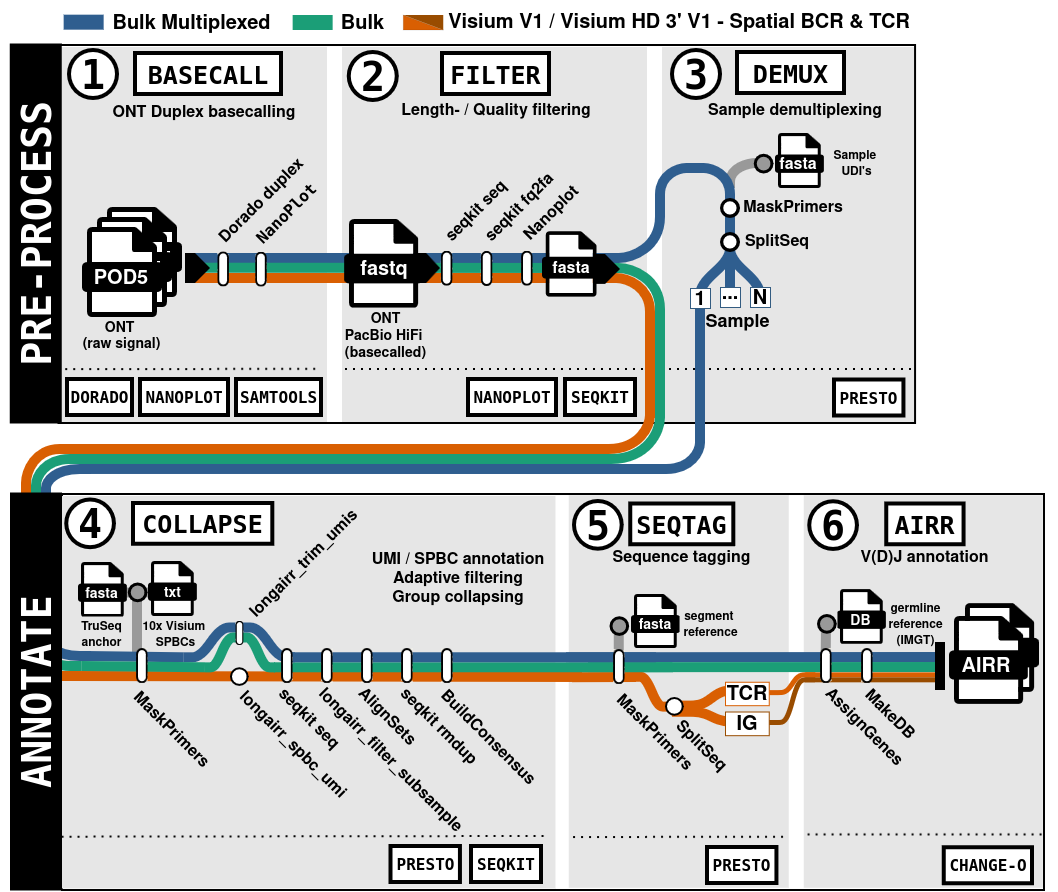
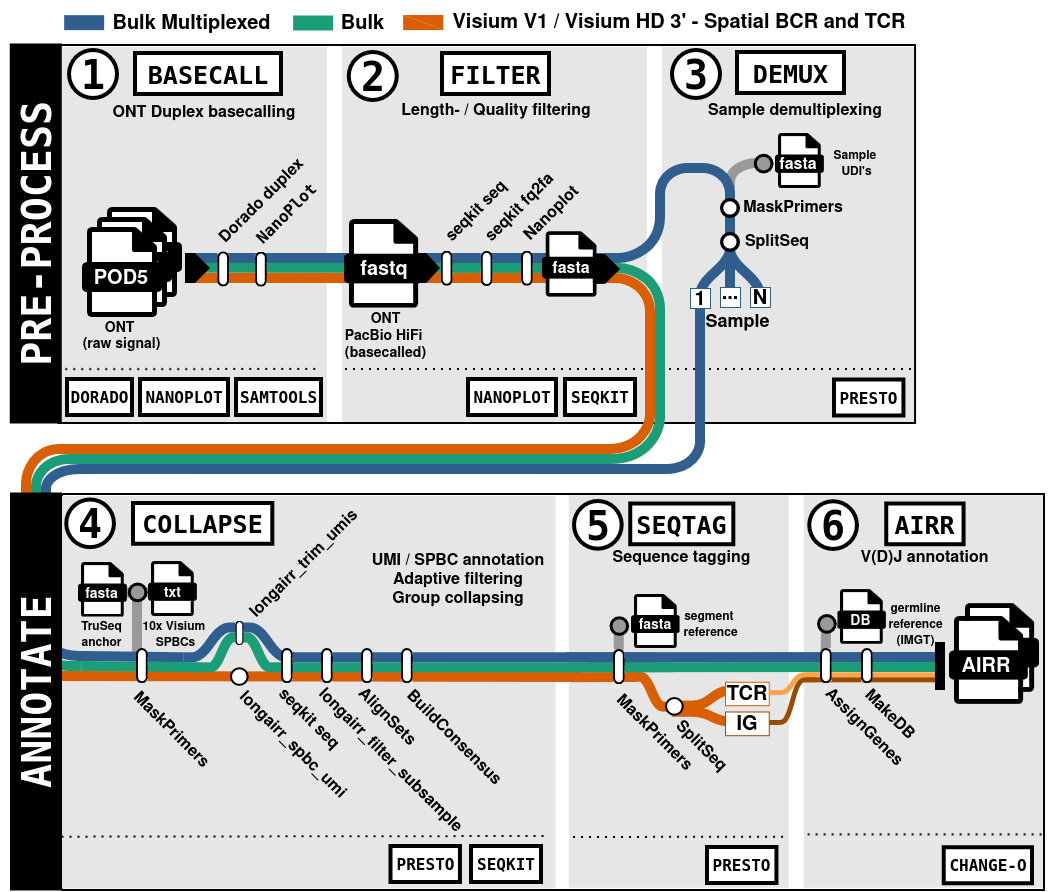
Updating documentation, including new repo-links in all scripts; installation bug-fix and updated documentation in README

diff --git a/longairr_scripts/longairr_spbc_umi_main.py b/longairr_scripts/longairr_spbc_umi_main.py
@@ -6,10 +6,9 @@ import gzip
 from Bio import SeqIO
 from Bio.Seq import Seq
 
-
 #================================================================#
 #
-#        Script:  longairr_spbc_umi.py
+#        Script:  longairr_spbc_umi_main.py
 #         Usage:  Internal script used in 'longairr.sh/longairr collapse'
 #
 #   DESCRIPTION:  Annotates spatial barcode / UMI information in anchor-cut reads.
@@ -17,30 +16,30 @@ from Bio.Seq import Seq
 #                 Supports two spatial modes:
 #
 #                 1) visium
-#                    - fixed SPBC length
-#                    - fixed UMI length
-#                    - one SPBC whitelist
+#                    - fixed SPBC length (default 16 nt)
+#                    - fixed UMI length (default 12 nt)
+#                    - one SPBC whitelist (e.g. visium-v1_coordinates.txt from 10x Genomics SpaceRanger)
 #                    - exact match or optional mismatch-based correction
-#                    - header emits: SPBC, UMI, SPBCUMI
+#                    - Sequence header slots: SPBC, UMI, SPBCUMI
 #
 #                 2) visium_hd
 #                    - exact matching only
 #                    - BC1 and BC2 information from 10x Genomics
-#                    - fixed base UMI length of 9
+#                    - Base UMI length of 9
 #                    - tries offsets 0/1/2
 #                    - offset nt are included in emitted UMI
-#                    - header emits: UMI, BC1, BC2, SPBC, UMISPBC, X, Y, SPBC10X
+#                    - Sequence header slots: UMI, BC1, BC2, SPBC, UMISPBC, X, Y, SPBC10X
+#
+#                  Script can return reads that dont map to any
+#                  valid SPBC using the --failed flag. UMI and SPBC sequence segments
+#                  can be either cut (--cut option) or kept.
 #
 #        AUTHOR:  Jonas Schuck, jschuckdev@gmail.com
-#    BUG-REPORT:  https://github.com/AGImkeller/AIRR_workflow/issues
+#    BUG-REPORT:  https://github.com/AGImkeller/LongAIRR/issues
 #
 #================================================================#
 
-
-# ----------------------------
-# Generic helpers
-# ----------------------------
-
+# General Helpers
 def parse_bool(value):
     if isinstance(value, bool):
         return value
@@ -57,11 +56,10 @@ def write_failed_record(record, failed_handle, reason):
         SeqIO.write(record, failed_handle, "fasta")
 
 
-# ----------------------------
-# Classic Visium helpers
-# ----------------------------
+# ----------------------------- Visium V1 --------------------------------------
 
-# Load Visium SPBC whitelist and optional coordinates [visium_v1.txt]
+# Load Visium SPBC whitelist and optional coordinates 
+# [visium_v1_coordinates.txt from 10x Genomics SpaceRanger]
 def load_visium_spbc_info(file_path):
     spbc_info = {}
     valid_spbc_set = set()
@@ -177,21 +175,6 @@ def find_closest_spbc(spbc,
     return closest_spbc
 
 
-# ----------------------------
-# Visium HD helpers
-# ----------------------------
-
-# Load Visium HD SPBC whitelists for Bc1 and Bc2
-def load_sequence_list(file_path):
-    seqs = []
-    with open_txt(file_path, "rt") as f:
-        for line in f:
-            seq = line.split()[0]
-            if seq:
-                seqs.append(seq)
-    return seqs
-
-
 # Annotation of UMI and SPBC in Visium v1 long reads
 class VisiumDecoder:
     def __init__(self, spbc_file, spbc_length=16, umi_length=12, mismatch_fraction=0.0):
@@ -253,8 +236,20 @@ class VisiumDecoder:
             "header_fields": header_fields,
         }
 
+# ----------------------------- Visium HD 3'------------------------------------
 
-# Annotation of UMI and SPBC (Bc1 + Bc2) in Visium HD v1 long reads
+# Load Visium HD 3' SPBC whitelists for Bc1 and Bc2
+def load_sequence_list(file_path):
+    seqs = []
+    with open_txt(file_path, "rt") as f:
+        for line in f:
+            seq = line.split()[0]
+            if seq:
+                seqs.append(seq)
+    return seqs
+
+
+# Annotation of UMI and SPBC (Bc1 + Bc2) in Visium HD 3' long reads
 class VisiumHDDecoder:
     def __init__(self, bc1_file, bc2_file, umi_base_length=9, offsets=(0, 1, 2),
         split_order=((15, 14), (15, 15), (16, 14), (16, 15)), hd_bins="002um"):
@@ -334,10 +329,8 @@ class VisiumHDDecoder:
 
         return None
 
+# ----------------------------- Data processing --------------------------------
 
-# ----------------------------
-# Shared processing loop
-# ----------------------------
 # main function, read-in, decoding, cut off annotated segment and output
 def annotate_spatial_reads(input_fasta, output_fasta, decoder, failed_fasta=None, cut=True):
     cut = parse_bool(cut)
@@ -403,13 +396,13 @@ def parse_args():
     parser.add_argument("--cut", type=str, default="True", help="Specify whether to cut annotated segments from sequence (default: True)")
     parser.add_argument("--spatial_mode", choices=["visium", "visiumhd"], default="visium", help="Spatial barcode mode (default: visium)")
 
-    # Visium arguments
+    # Visium V1 arguments
     parser.add_argument("--spbc_file", help="Path to valid SPBC whitelist file (Visium mode)")
     parser.add_argument("--spbc_length", type=int, default=16, help="Length of the SPBC sequence in Visium mode (default: 16)")
     parser.add_argument("--umi_length", type=int, default=12, help="Length of the UMI sequence in Visium mode (default: 12)")
     parser.add_argument("--mismatch_fraction", type=float, default=0.0, help="Fraction of allowed mismatches between SPBCs in Visium mode (default: 0.0)")
 
-    # Visium HD arguments
+    # Visium HD 3' arguments
     parser.add_argument("--bc1_file", help="Path to valid BC1 whitelist file (Visium HD mode)")
     parser.add_argument("--bc2_file", help="Path to valid BC2 whitelist file (Visium HD mode)")
     parser.add_argument("--hd_umi_base_length", type=int, default=9, help="Base UMI length for Visium HD mode before offset nt are included (default: 9)")

diff --git a/longairr_scripts/longairr_header_metadata.py b/longairr_scripts/longairr_header_metadata.py
@@ -2,7 +2,6 @@
 
 import argparse
 
-
 #================================================================#
 #
 #        Script:  longairr_header_metadata.py
@@ -16,7 +15,7 @@ import argparse
 #                 and their counts (PRCOUNT) are also appended.
 #
 #        AUTHOR:  Jonas Schuck, jschuckdev@gmail.com
-#    BUG-REPORT:  https://github.com/AGImkeller/AIRR_workflow/issues
+#    BUG-REPORT:  https://github.com/AGImkeller/LongAIRR/issues
 #
 #================================================================#
 
@@ -98,12 +97,7 @@ def parse_args():
     )
     parser.add_argument("--input", required=True, help="Input FASTA")
     parser.add_argument("-o", "--output", required=True, help="Output FASTA")
-    parser.add_argument(
-        "--library",
-        choices=["bulk", "visium", "visiumhd"],
-        default="visium",
-        help="Library type (default: visium)"
-    )
+    parser.add_argument("--library", choices=["bulk", "visium", "visiumhd"], default="visium", help="Library type (default: visium)")
     return parser.parse_args()
 
 

diff --git a/longairr_scripts/longairr_trim_umis.py b/longairr_scripts/longairr_trim_umis.py
@@ -7,8 +7,8 @@ import os
 
 #================================================================#
 #
-#        Script:  nanoairr_trim_umi.py
-#         Usage:  Internal script used in 'nanoairr.sh/nanoairr umis'
+#        Script:  longairr_trim_umis.py
+#         Usage:  Internal script used in 'longairr.sh/longairr collapse'
 #
 #   DESCRIPTION:  Script that modifies the barcode in the BARCODE slot
 #                 of the header based on the '--forward' parameter and specified length.
@@ -16,7 +16,7 @@ import os
 #                 Otherwise, take the first 'length' characters.
 #
 #        AUTHOR:  Jonas Schuck, jschuckdev@gmail.com
-#    BUG-REPORT:  https://github.com/AGImkeller/AIRR_workflow/issues
+#    BUG-REPORT:  https://github.com/AGImkeller/LongAIRR/issues
 #
 #================================================================#
 

diff --git a/longairr_scripts/longairr_rc.py b/longairr_scripts/longairr_rc.py
@@ -4,7 +4,6 @@ import argparse
 from Bio import SeqIO
 from Bio.SeqRecord import SeqRecord
 
-
 #================================================================#
 #
 #        Script:  longairr_rc.py
@@ -14,7 +13,7 @@ from Bio.SeqRecord import SeqRecord
 #                 failed to match the anchor/barcode sequences
 #
 #        AUTHOR:  Jonas Schuck, jschuckdev@gmail.com
-#    BUG-REPORT:  https://github.com/AGImkeller/AIRR_workflow/issues
+#    BUG-REPORT:  https://github.com/AGImkeller/LongAIRR/issues
 #
 #================================================================#
 

diff --git a/longairr_scripts/longairr_filter_subsample_groups.py b/longairr_scripts/longairr_filter_subsample_groups.py
@@ -30,7 +30,7 @@ from collections import defaultdict
 #                 computational load of downstream MSA processes.
 #
 #        AUTHOR:  Jonas Schuck, jschuckdev@gmail.com
-#    BUG-REPORT:  https://github.com/AGImkeller/AIRR_workflow/issues
+#    BUG-REPORT:  https://github.com/AGImkeller/LongAIRR/issues
 #
 #================================================================#
 

diff --git a/longairr_scripts/longairr_split_align.py b/longairr_scripts/longairr_split_align.py
@@ -26,7 +26,7 @@ import math
 #                 less groups if the soft-limit condition is met.
 #
 #        AUTHOR:  Jonas Schuck, jschuckdev@gmail.com
-#    BUG-REPORT:  https://github.com/AGImkeller/AIRR_workflow/issues
+#    BUG-REPORT:  https://github.com/AGImkeller/LongAIRR/issues
 #
 #================================================================#
 

diff --git a/README.md b/README.md
@@ -14,7 +14,7 @@ and established tools from the [Immcantation framework](https://immcantation.rea
 to reliably generate antigen receptor sequences from long-read sequencing data.
 
 <p align="center">
-  <img src="./vignette/figures/longairr_profiling_workflow.png" width="800" />
+  <img src="./vignette/figures/longairr_profiling_overview.png" width="800" />
 </p>
 
 ___
@@ -64,11 +64,10 @@ conda activate base
 Create a directory for LongAIRR and download the repository:
 
 ```markdown
-mkdir -d path/to/longairr
-cd path/to/longairr
+mkdir -d install/here
+cd install/here
 
-curl -u github-username:token -L https://github.com/AGImkeller/AIRR_workflow/archive/refs/heads/visium_hd.zip -o longairr.zip
-unzip longairr.zip
+git clone https://github.com/AGImkeller/LongAIRR.git
 ```
 
 ### Run install.sh
@@ -78,7 +77,7 @@ the required databases and set up the software environment.
 
 Key Options:
 -  `--fetch-db TRUE`: Downloads the required IMGT/IgBlast reference database.
--  `--db-dir [path]`: Specifies the directory to store the reference database.
+-  `--save-db [path]`: Specifies the directory to store the reference database.
 -  `--species [name]`: Specifies the species for the IMGT reference (e.g., human or mouse).
 -  `--env TRUE|FALSE`: Sets up 'longairr' conda environment
 
@@ -96,10 +95,10 @@ you will only be able to run the functionalities in the activated conda environm
 **Example commands**
 
 ```markdown
-cd path/to/longairr
+cd path/to/LongAIRR
 
-#full example
-bash install.sh --fetch-db TRUE --db-dir ./ --species human --env true ./longairr_scripts/
+#full example (including reference download)
+bash install.sh --fetch-db TRUE --save-db ./ --species human --env true ./longairr_scripts/
 
 #short example (no reference download)
 bash install.sh
@@ -132,7 +131,7 @@ Next, navigate to the directory containing the **deinstall.sh** script and run i
 ```markdown
 conda deactivate
 
-cd path/to/longairr/
+cd path/to/LongAIRR/
 bash deinstall.sh
 ```
 This script will remove the 'longairr' conda environment. Delete the
@@ -349,7 +348,7 @@ ___
 
 **Contact**: Schuck@med.uni-frankfurt.de
 
-**Issues/Bug-report:**: [LongAIRR-Issues](https://github.com/AGImkeller/AIRR_workflow/issues)
+**Issues/Bug-report:**: [LongAIRR-Issues](https://github.com/AGImkeller/LongAIRR/issues)
 
 ___
 [**BACK TO TOP**](#Table-of-Content)

diff --git a/vignette/extended_documentation.md b/vignette/extended_documentation.md
@@ -6,7 +6,7 @@ parameter descriptions for the different **LongAIRR** modules. We will also high
 advanced use-cases.
 
 <p align="center">
-  <img src="./figures/longairr_profiling_workflow.png" width="800" />
+  <img src="./figures/longairr_profiling_overview.png" width="800" />
 </p>
 
 ## Table of Content
@@ -158,7 +158,7 @@ ___
 
 **Contact**: Schuck@med.uni-frankfurt.de
 
-**Issues/Bug-report:**: [LongAIRR-Issues](https://github.com/AGImkeller/AIRR_workflow/issues)
+**Issues/Bug-report:**: [LongAIRR-Issues](https://github.com/AGImkeller/LongAIRR/issues)
 
 ___
 [**BACK TO TOP**](#Table-of-Content)
